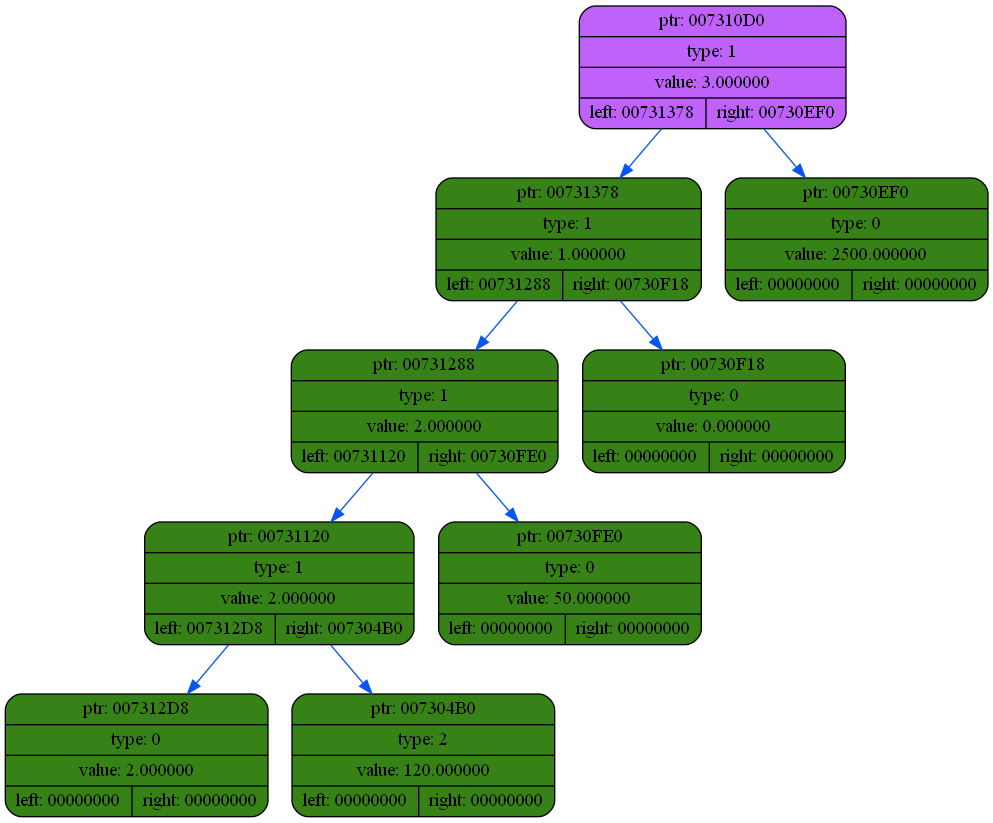
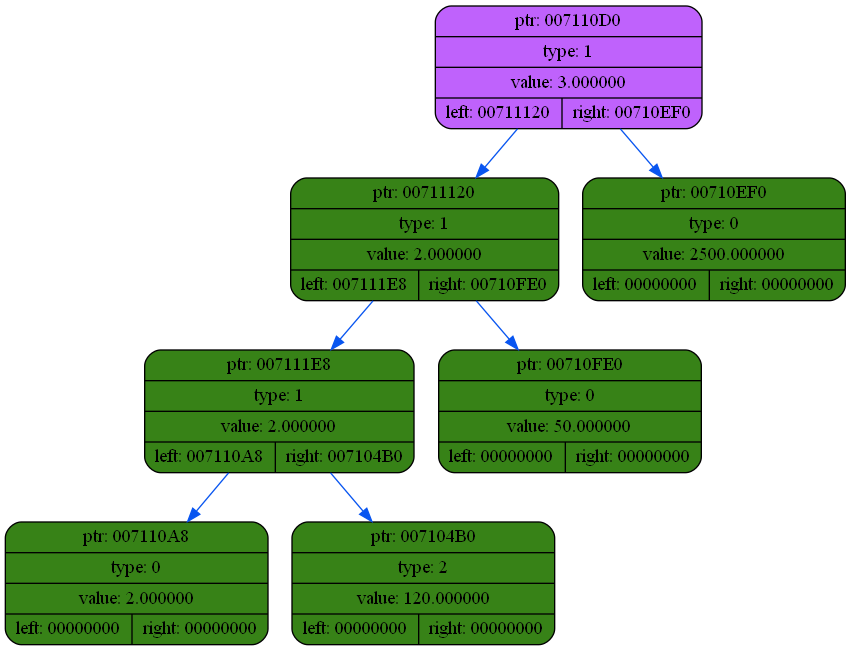
post-order optimisation

diff --git a/list_dump.html b/list_dump.html
@@ -26,6 +26,3 @@ MEMORY PRINT
 MEMORY PRINT
 
 <img src=dump\dump9.png>
-MEMORY PRINT
-
-<img src=dump\dump10.png>

diff --git a/src/diff_tree.cpp b/src/diff_tree.cpp
@@ -198,9 +198,11 @@ void optimize(node_t* node, FILE* html_stream)
 
 size_t const_folding(node_t* node)
 {
-    assert(node);
+    if (!node) { return 0; }
 
     size_t opt_counter = 0;
+    if (node -> left)  { opt_counter += const_folding(node -> left);  }
+    if (node -> right) { opt_counter += const_folding(node -> right); }
 
     if (node -> type == OP && !check_vars(node))
     {
@@ -213,17 +215,18 @@ size_t const_folding(node_t* node)
 
         printf("EVALUATION: [%p] <- %lf", node -> value);
     }
-    if (node -> left)  { opt_counter += const_folding(node -> left);  }
-    if (node -> right) { opt_counter += const_folding(node -> right); }
 
     return opt_counter;
 }
 
 size_t remove_neutral_elems(node_t** node)
 {
-    assert(node);
+    if (!node) { return 0; }
 
     size_t opt_counter = 0;
+    if ((*node) -> left)  { opt_counter += remove_neutral_elems(&(*node) -> left);  }
+    if ((*node) -> right) { opt_counter += remove_neutral_elems(&(*node) -> right); }
+
     if ((*node) -> type == OP)
     {
         switch((int)(*node) -> value)
@@ -235,9 +238,6 @@ size_t remove_neutral_elems(node_t** node)
             default: break;
         }
     }
-
-    if ((*node) -> left)  { opt_counter += remove_neutral_elems(&(*node) -> left);  }
-    if ((*node) -> right) { opt_counter += remove_neutral_elems(&(*node) -> right); }
 
     return opt_counter;
 }
